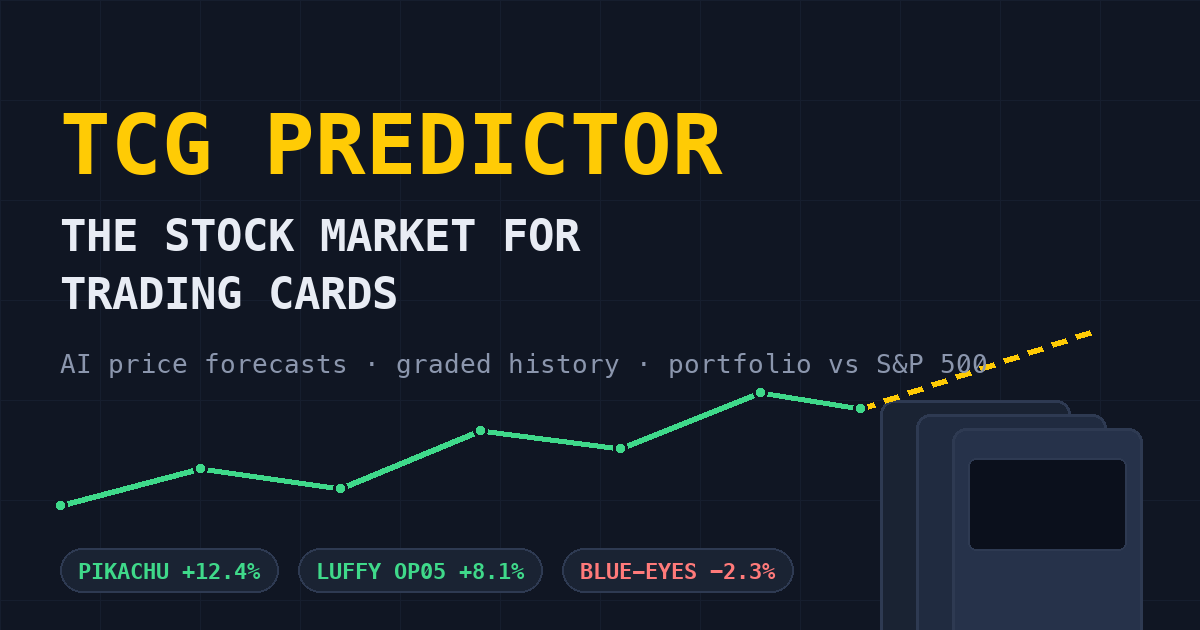
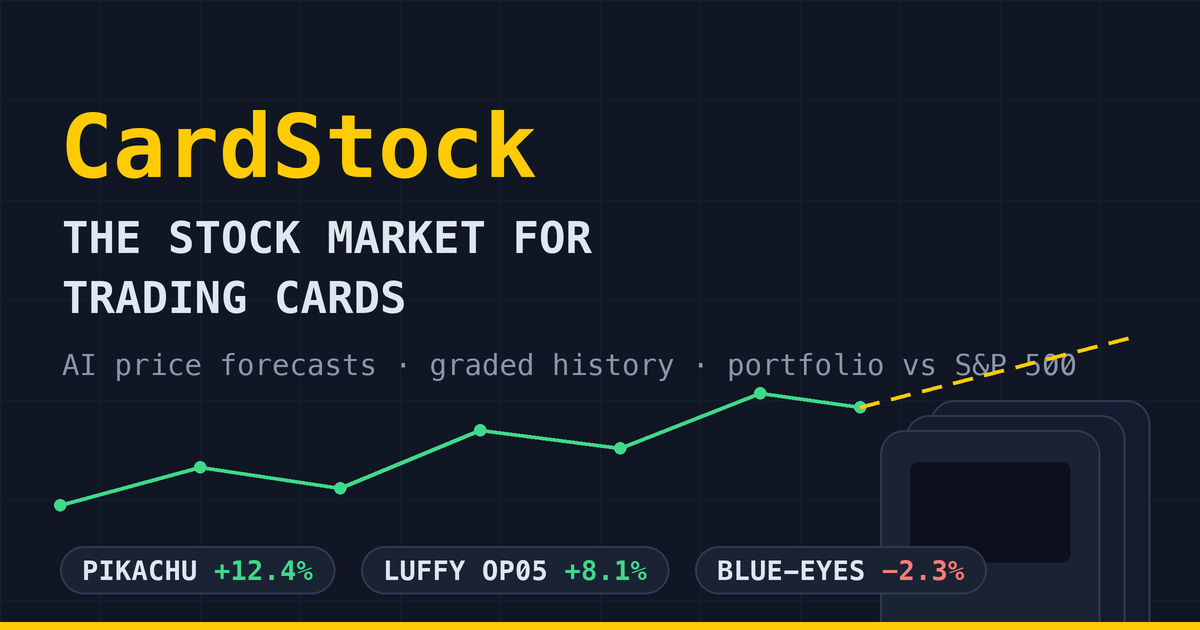
CardStock-branded social share image; no top gap on empty portfolio

diff --git a/client/src/styles/features/Portfolio.css b/client/src/styles/features/Portfolio.css
@@ -27,6 +27,12 @@
   margin-top: var(--space-25);
 }
 
+/* Empty portfolio: the hero and side rail are hidden, so the positions
+   block is the first thing on the page — no gap above it. */
+.pf-positions--empty {
+  margin-top: 0;
+}
+
 .position-editor td {
   background: var(--surface-2);
 }

diff --git a/client/src/features/watchlist/Portfolio.tsx b/client/src/features/watchlist/Portfolio.tsx
@@ -108,7 +108,7 @@ export default function Portfolio() {
             )}
 
             {/* ----- Positions table ----- */}
-            <div className="pf-positions full-span">
+            <div className={`pf-positions full-span${empty ? ' pf-positions--empty' : ''}`}>
                 <div className="table-head">
                     <h2 className="table-head__title">Positions</h2>
                     {!empty && (